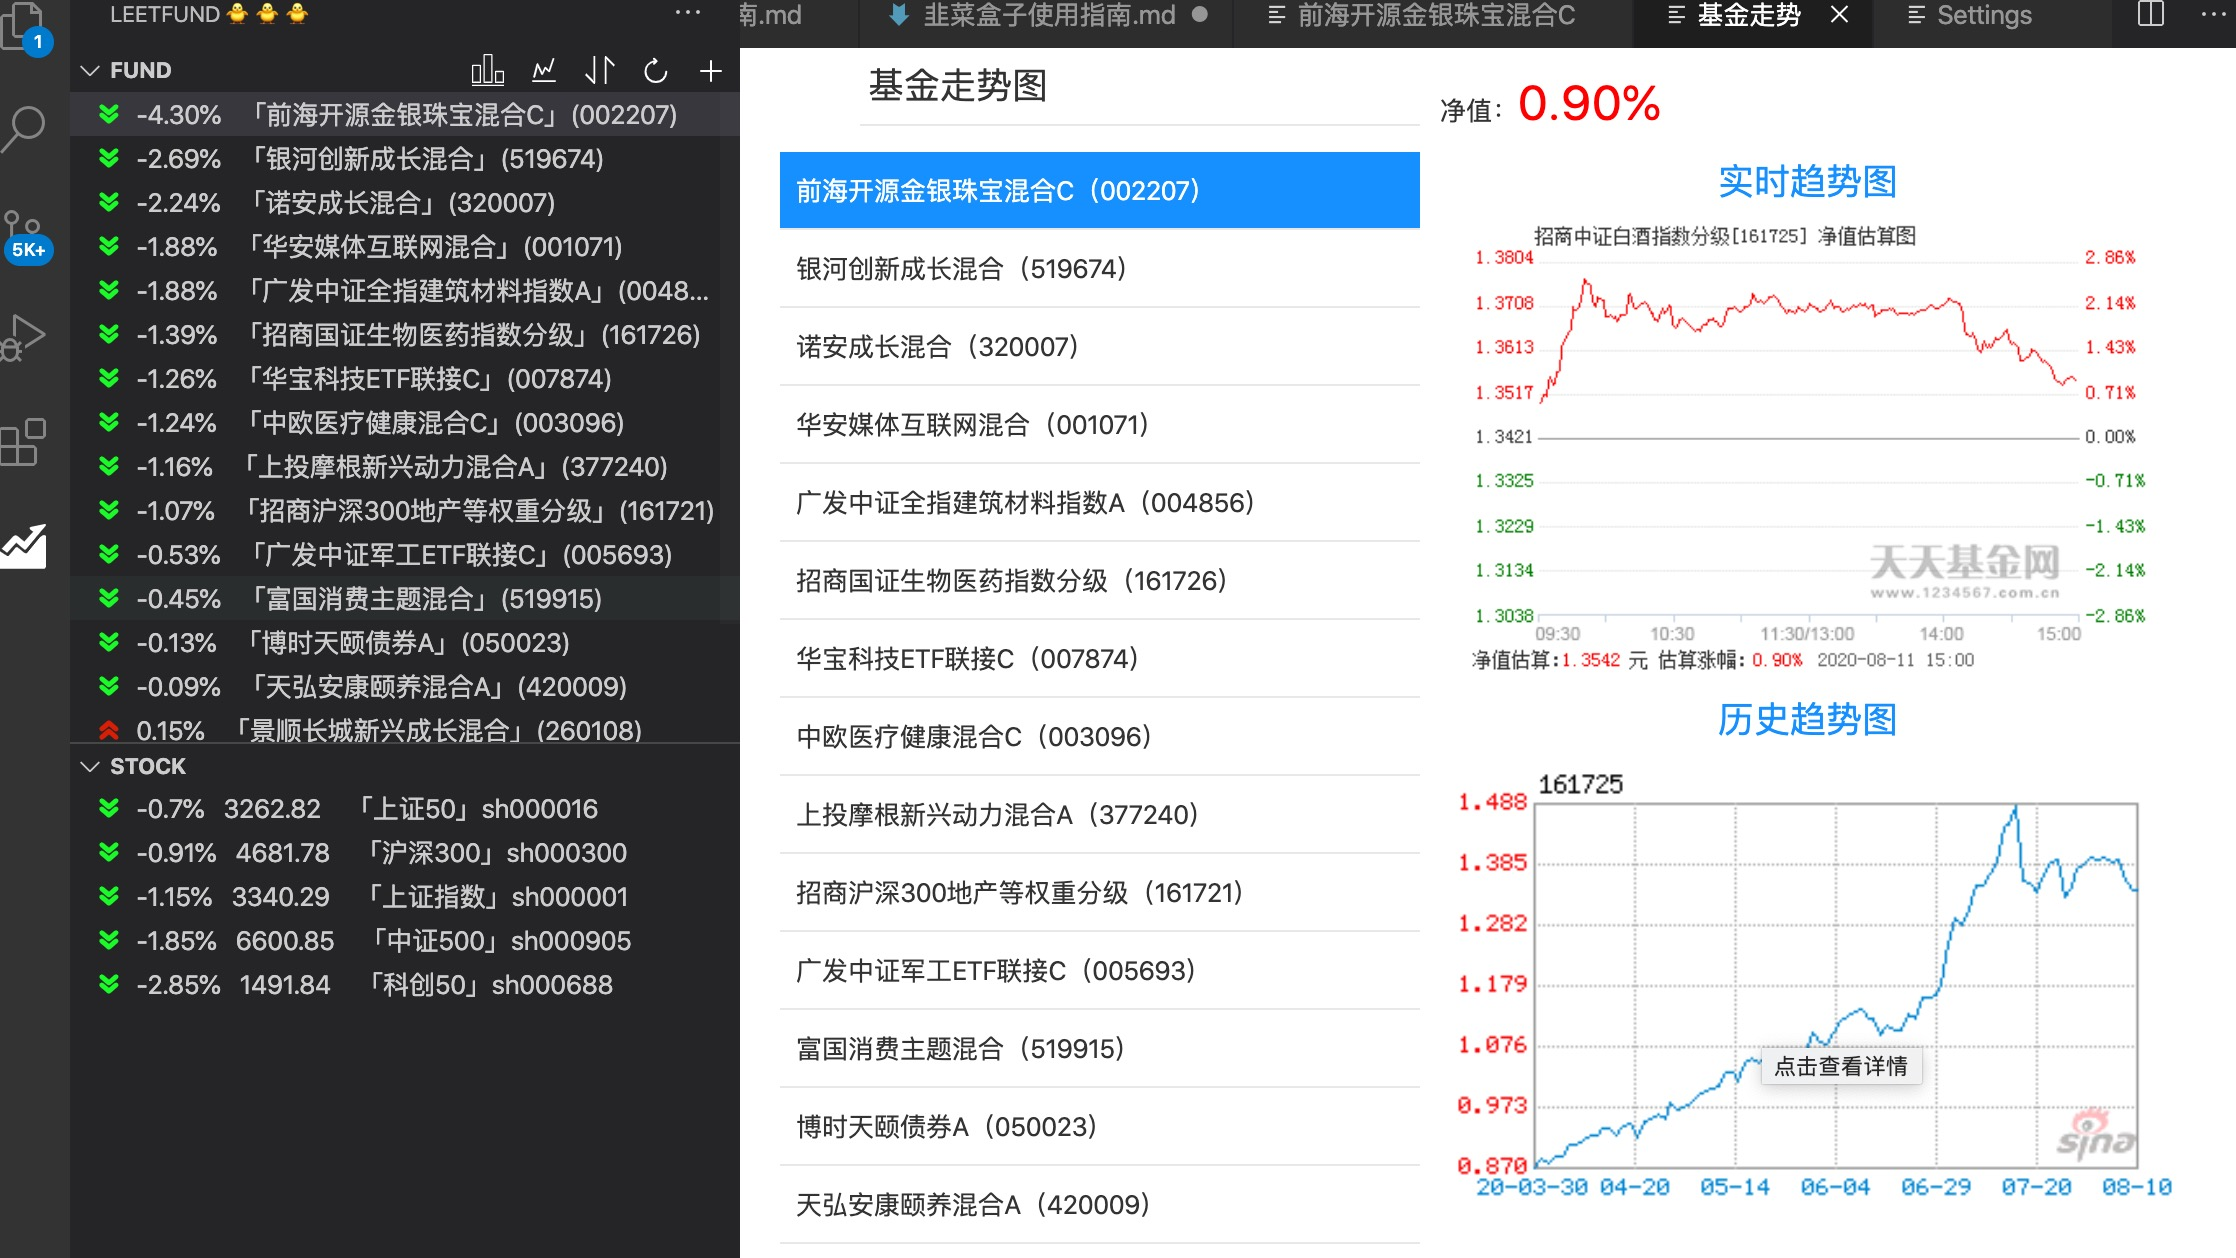
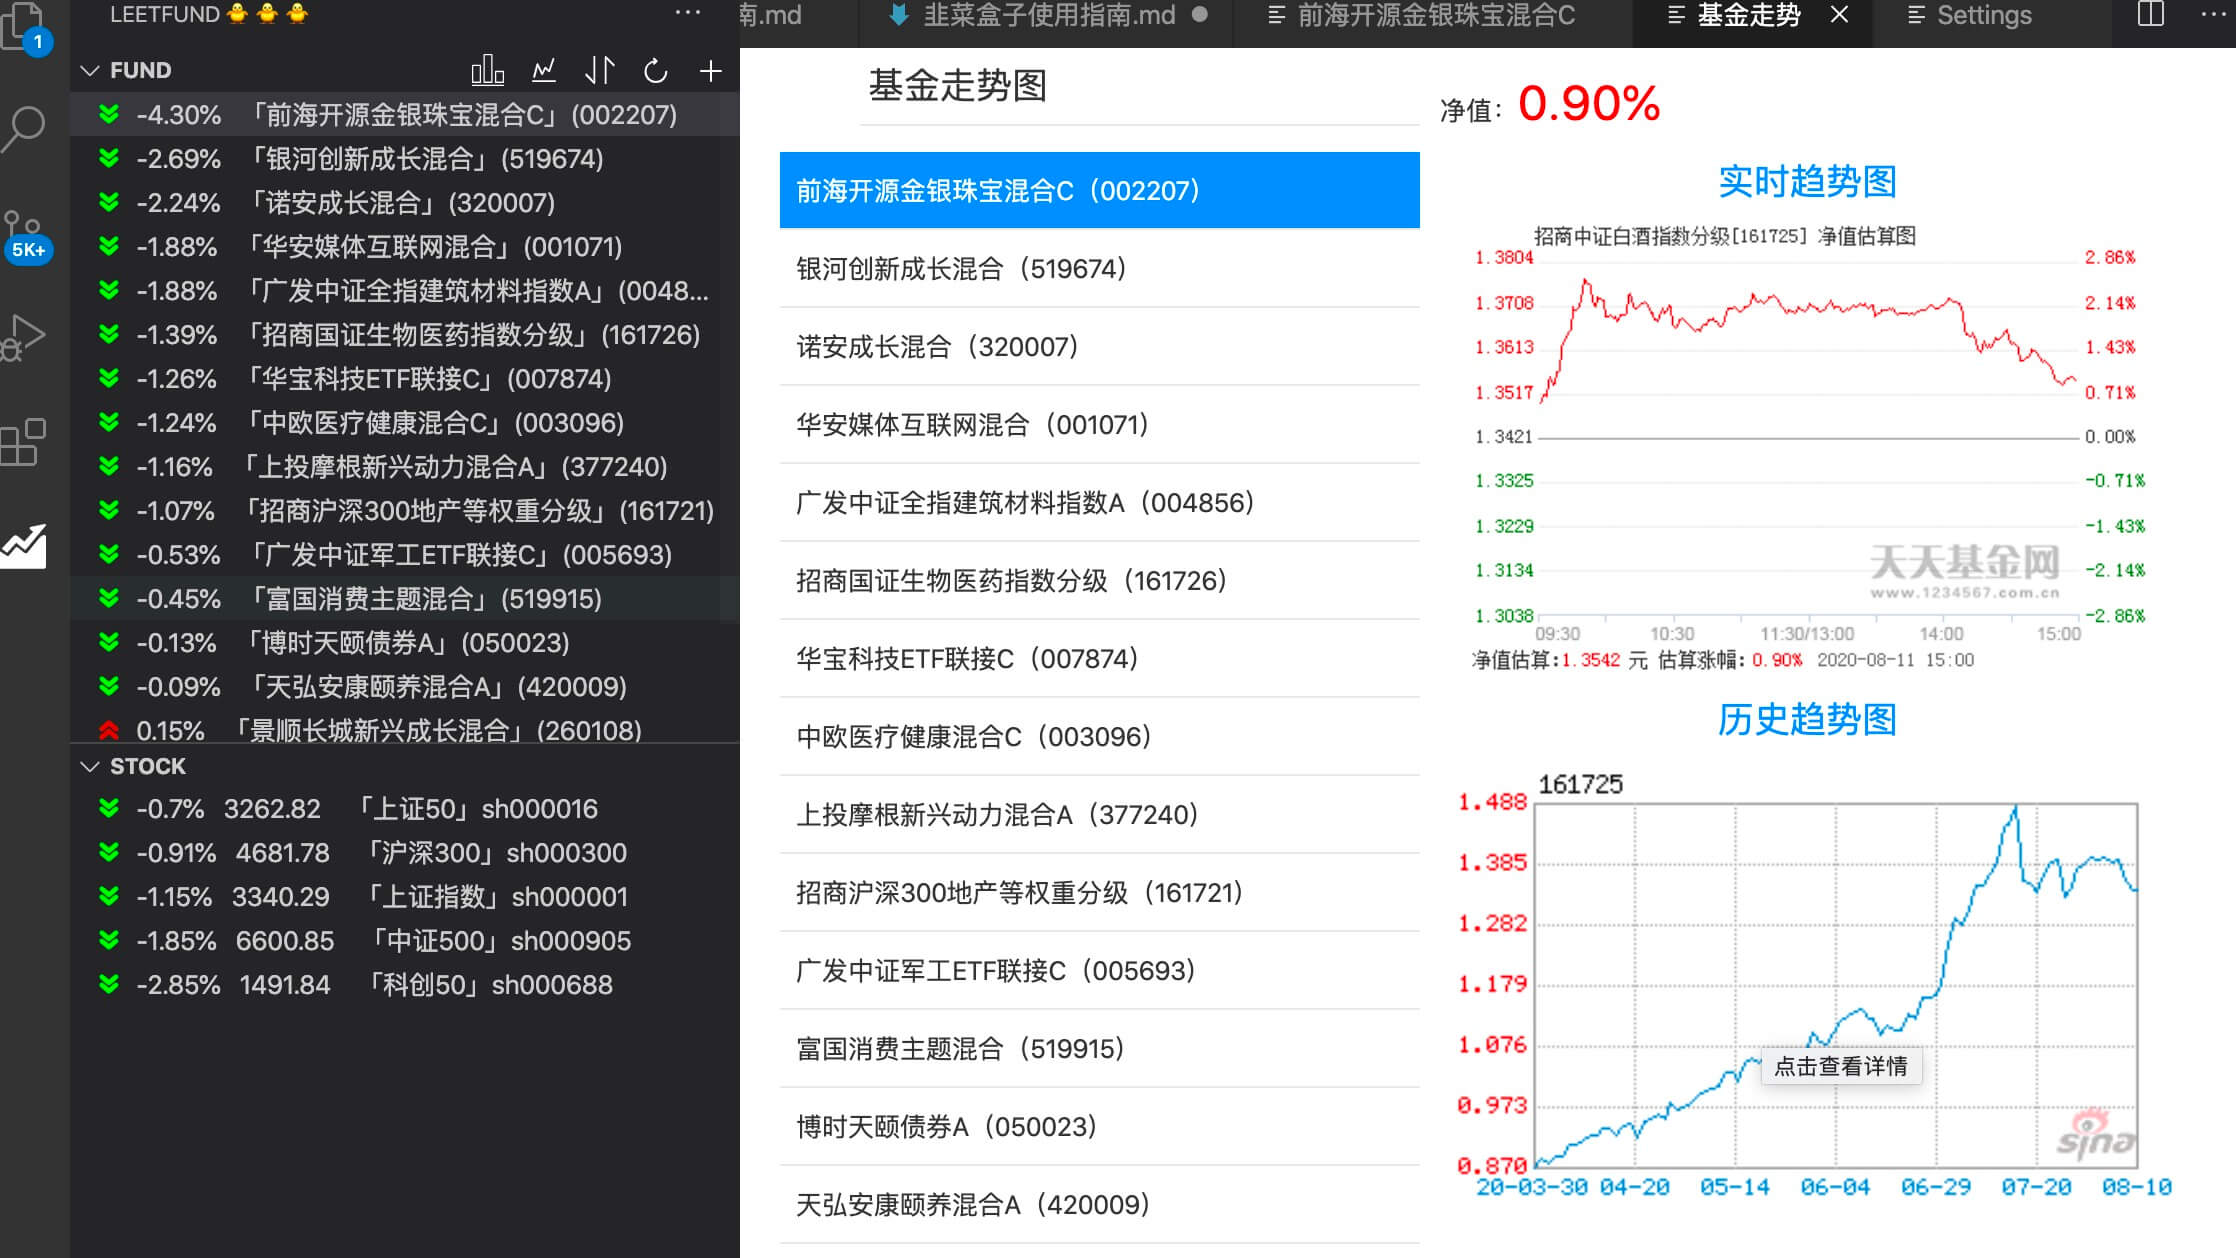
chore: compress img

diff --git a/README.md b/README.md
@@ -25,8 +25,8 @@ VSCode 最低版本要求：`v1.40.0+`
 
 ## 插件介绍
 
+- [韭菜盒子操作文档说明](https://github.com/giscafer/leek-fund/issues/23)
 - [VSCode 插件开发——韭菜盒子（图片如果展示不了可以看知乎的文章界面功能截图）](https://zhuanlan.zhihu.com/p/166683895)
-- [韭菜盒子操作文档说明](./document.md)
 
 <!-- https://raw.staticdn.net/ 为GitHub raw 加速地址 -->
 
@@ -114,7 +114,7 @@ VSCode 最低版本要求：`v1.40.0+`
 
 - [zomixi](https://github.com/zomixi)
 - [httpcheck](https://github.com/httpcheck)
-- [Somin\_](https://github.com/as771788379)
+- [JayHuangTnT](https://github.com/JayHuangTnT)
 
 ## Github
 

diff --git a/document.md b/document.md
@@ -2,12 +2,25 @@
 
 ## 目录
 
-- 序言
-- 支持环境
-- 功能介绍
-- 图文操作指引
-- 插件配置说明
-- 其他
+<!--ts-->
+
+- [序言](#序言)
+- [支持环境](#支持环境)
+- [功能介绍](#功能介绍)
+  _ [图文操作指引](#图文操作指引)
+  _ [新增](#新增)
+  _ [删除](#删除)
+  _ [排序](#排序)
+  _ [趋势图和 K 线图](#趋势图和-k-线图)
+  _ [基金历史净值](#基金历史净值)
+- [插件配置说明](#插件配置说明)
+- [问题](#问题)
+- [问题反馈](#问题反馈)
+- [交流群](#交流群)
+
+<!-- Added by: giscafer, at: Tue Aug 11 15:20:22 CST 2020 -->
+
+<!--te-->
 
 ## 序言
 
